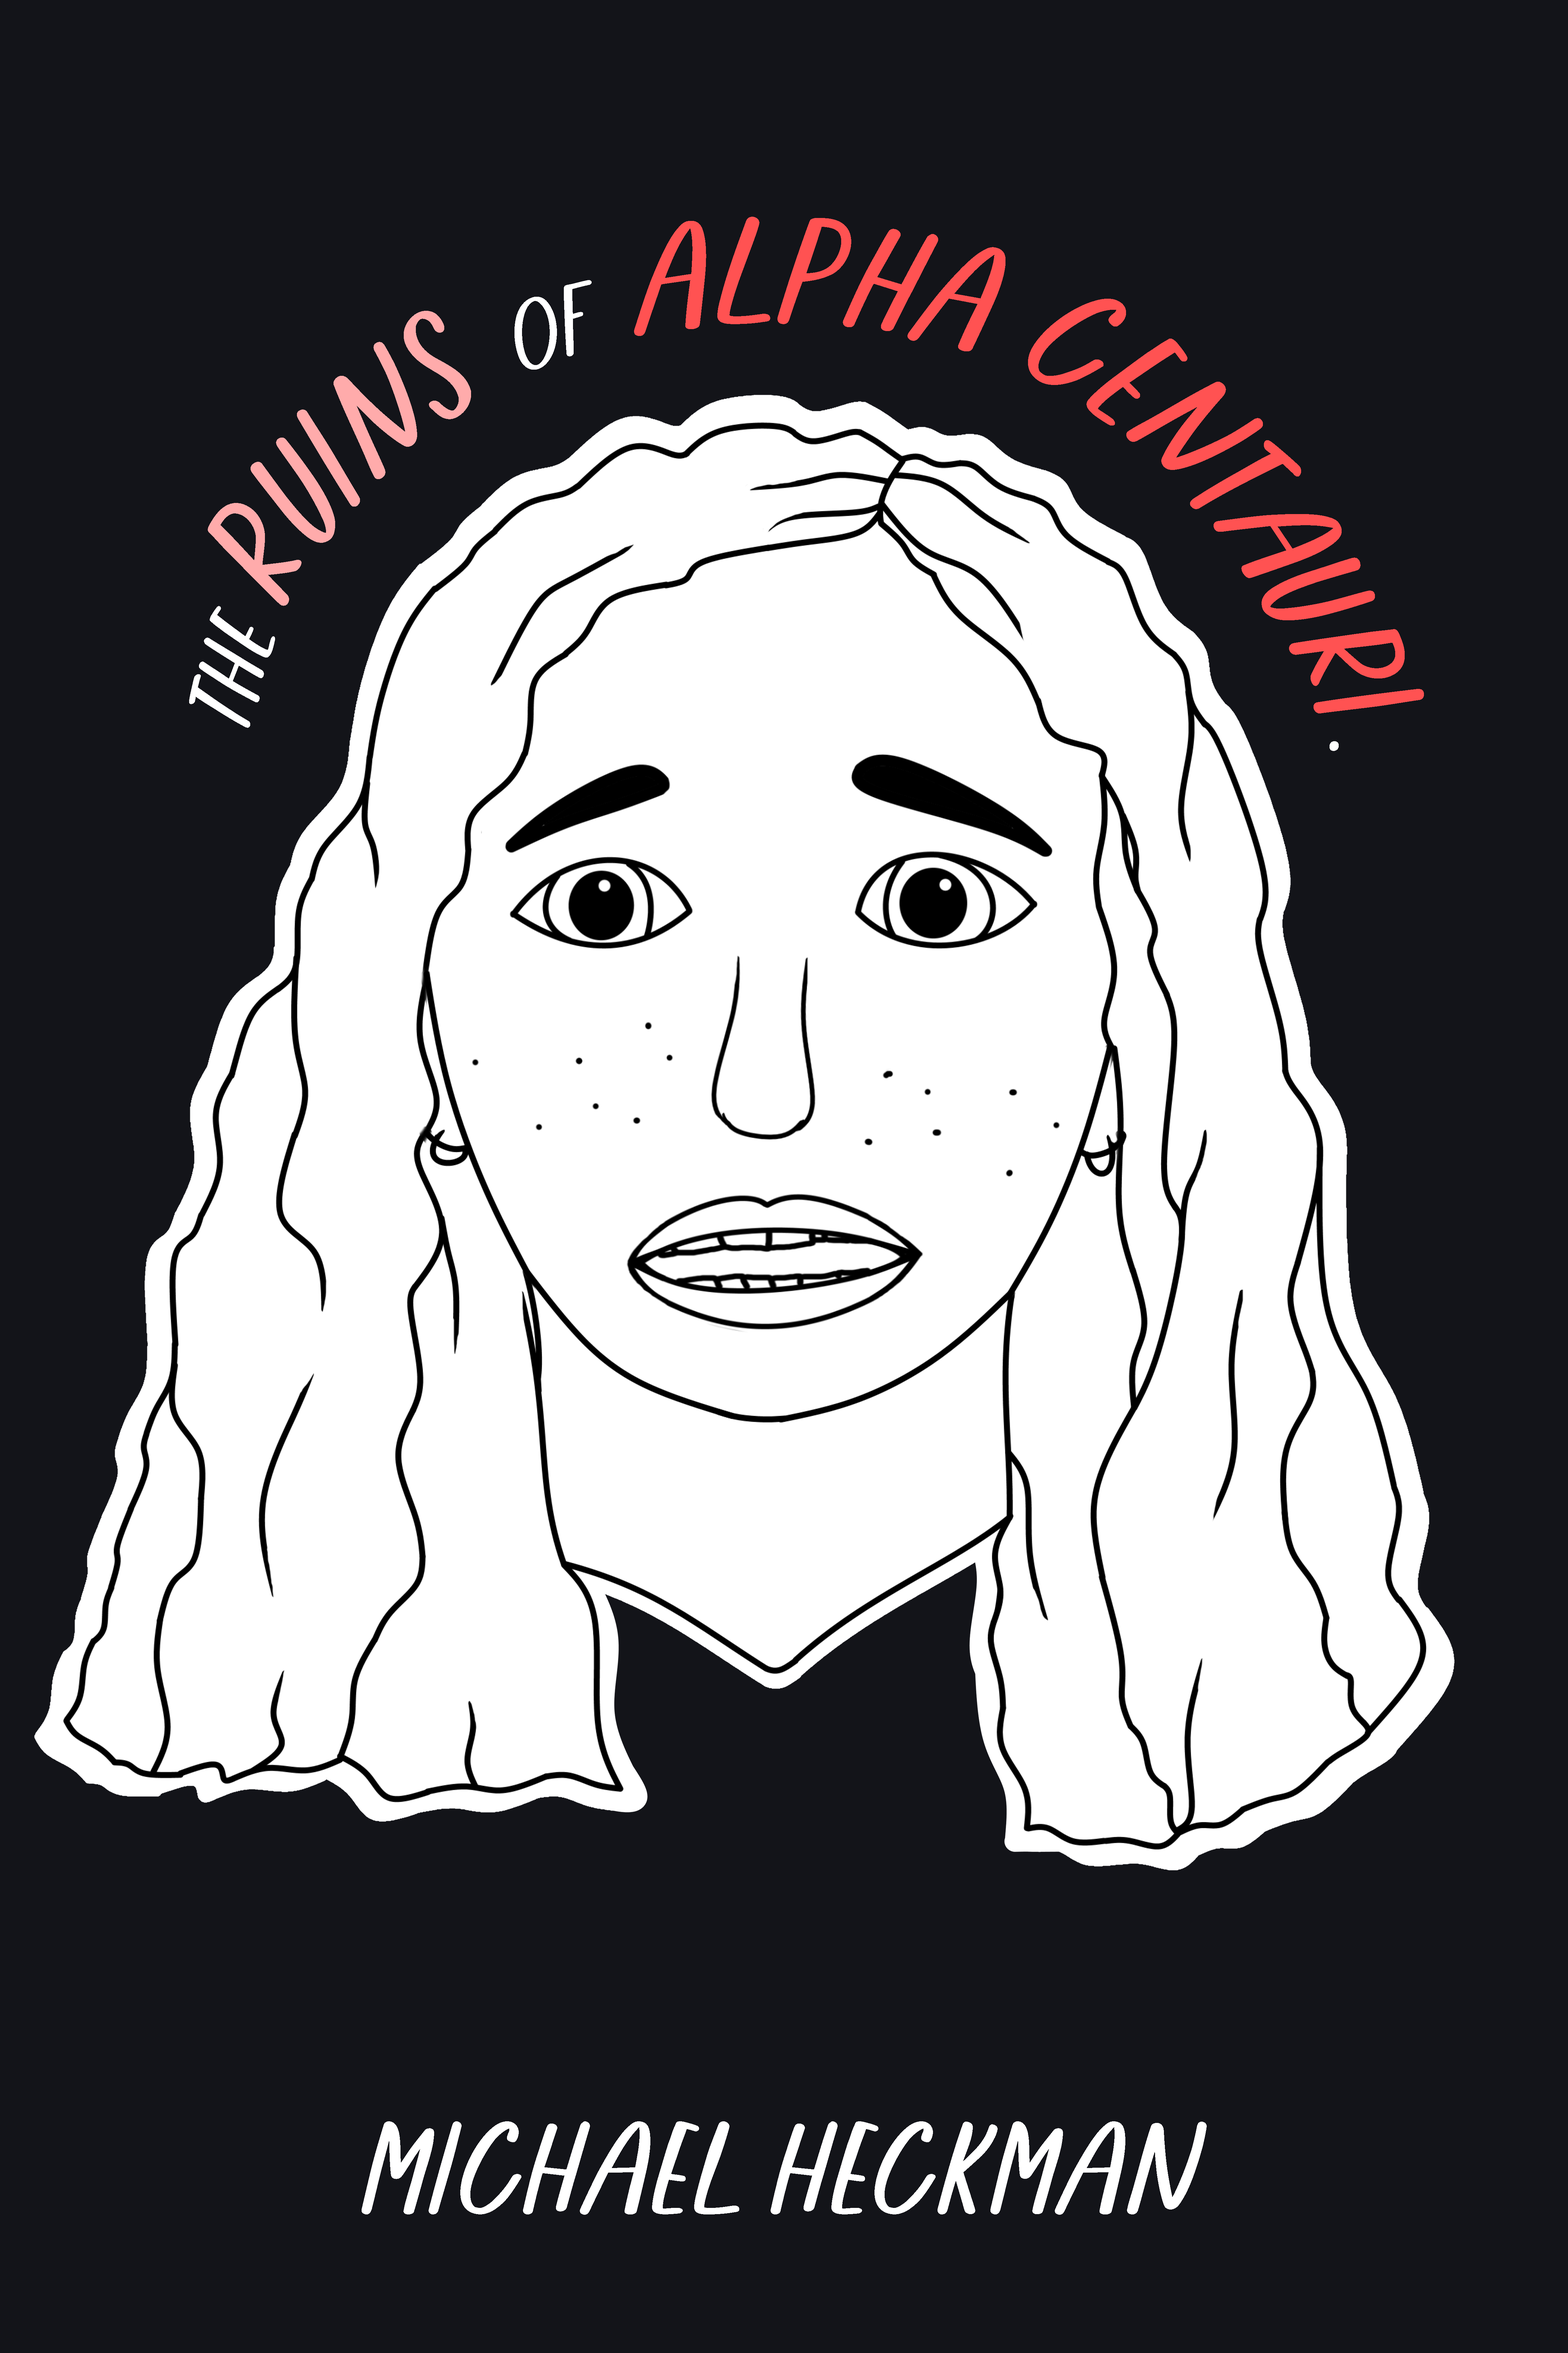
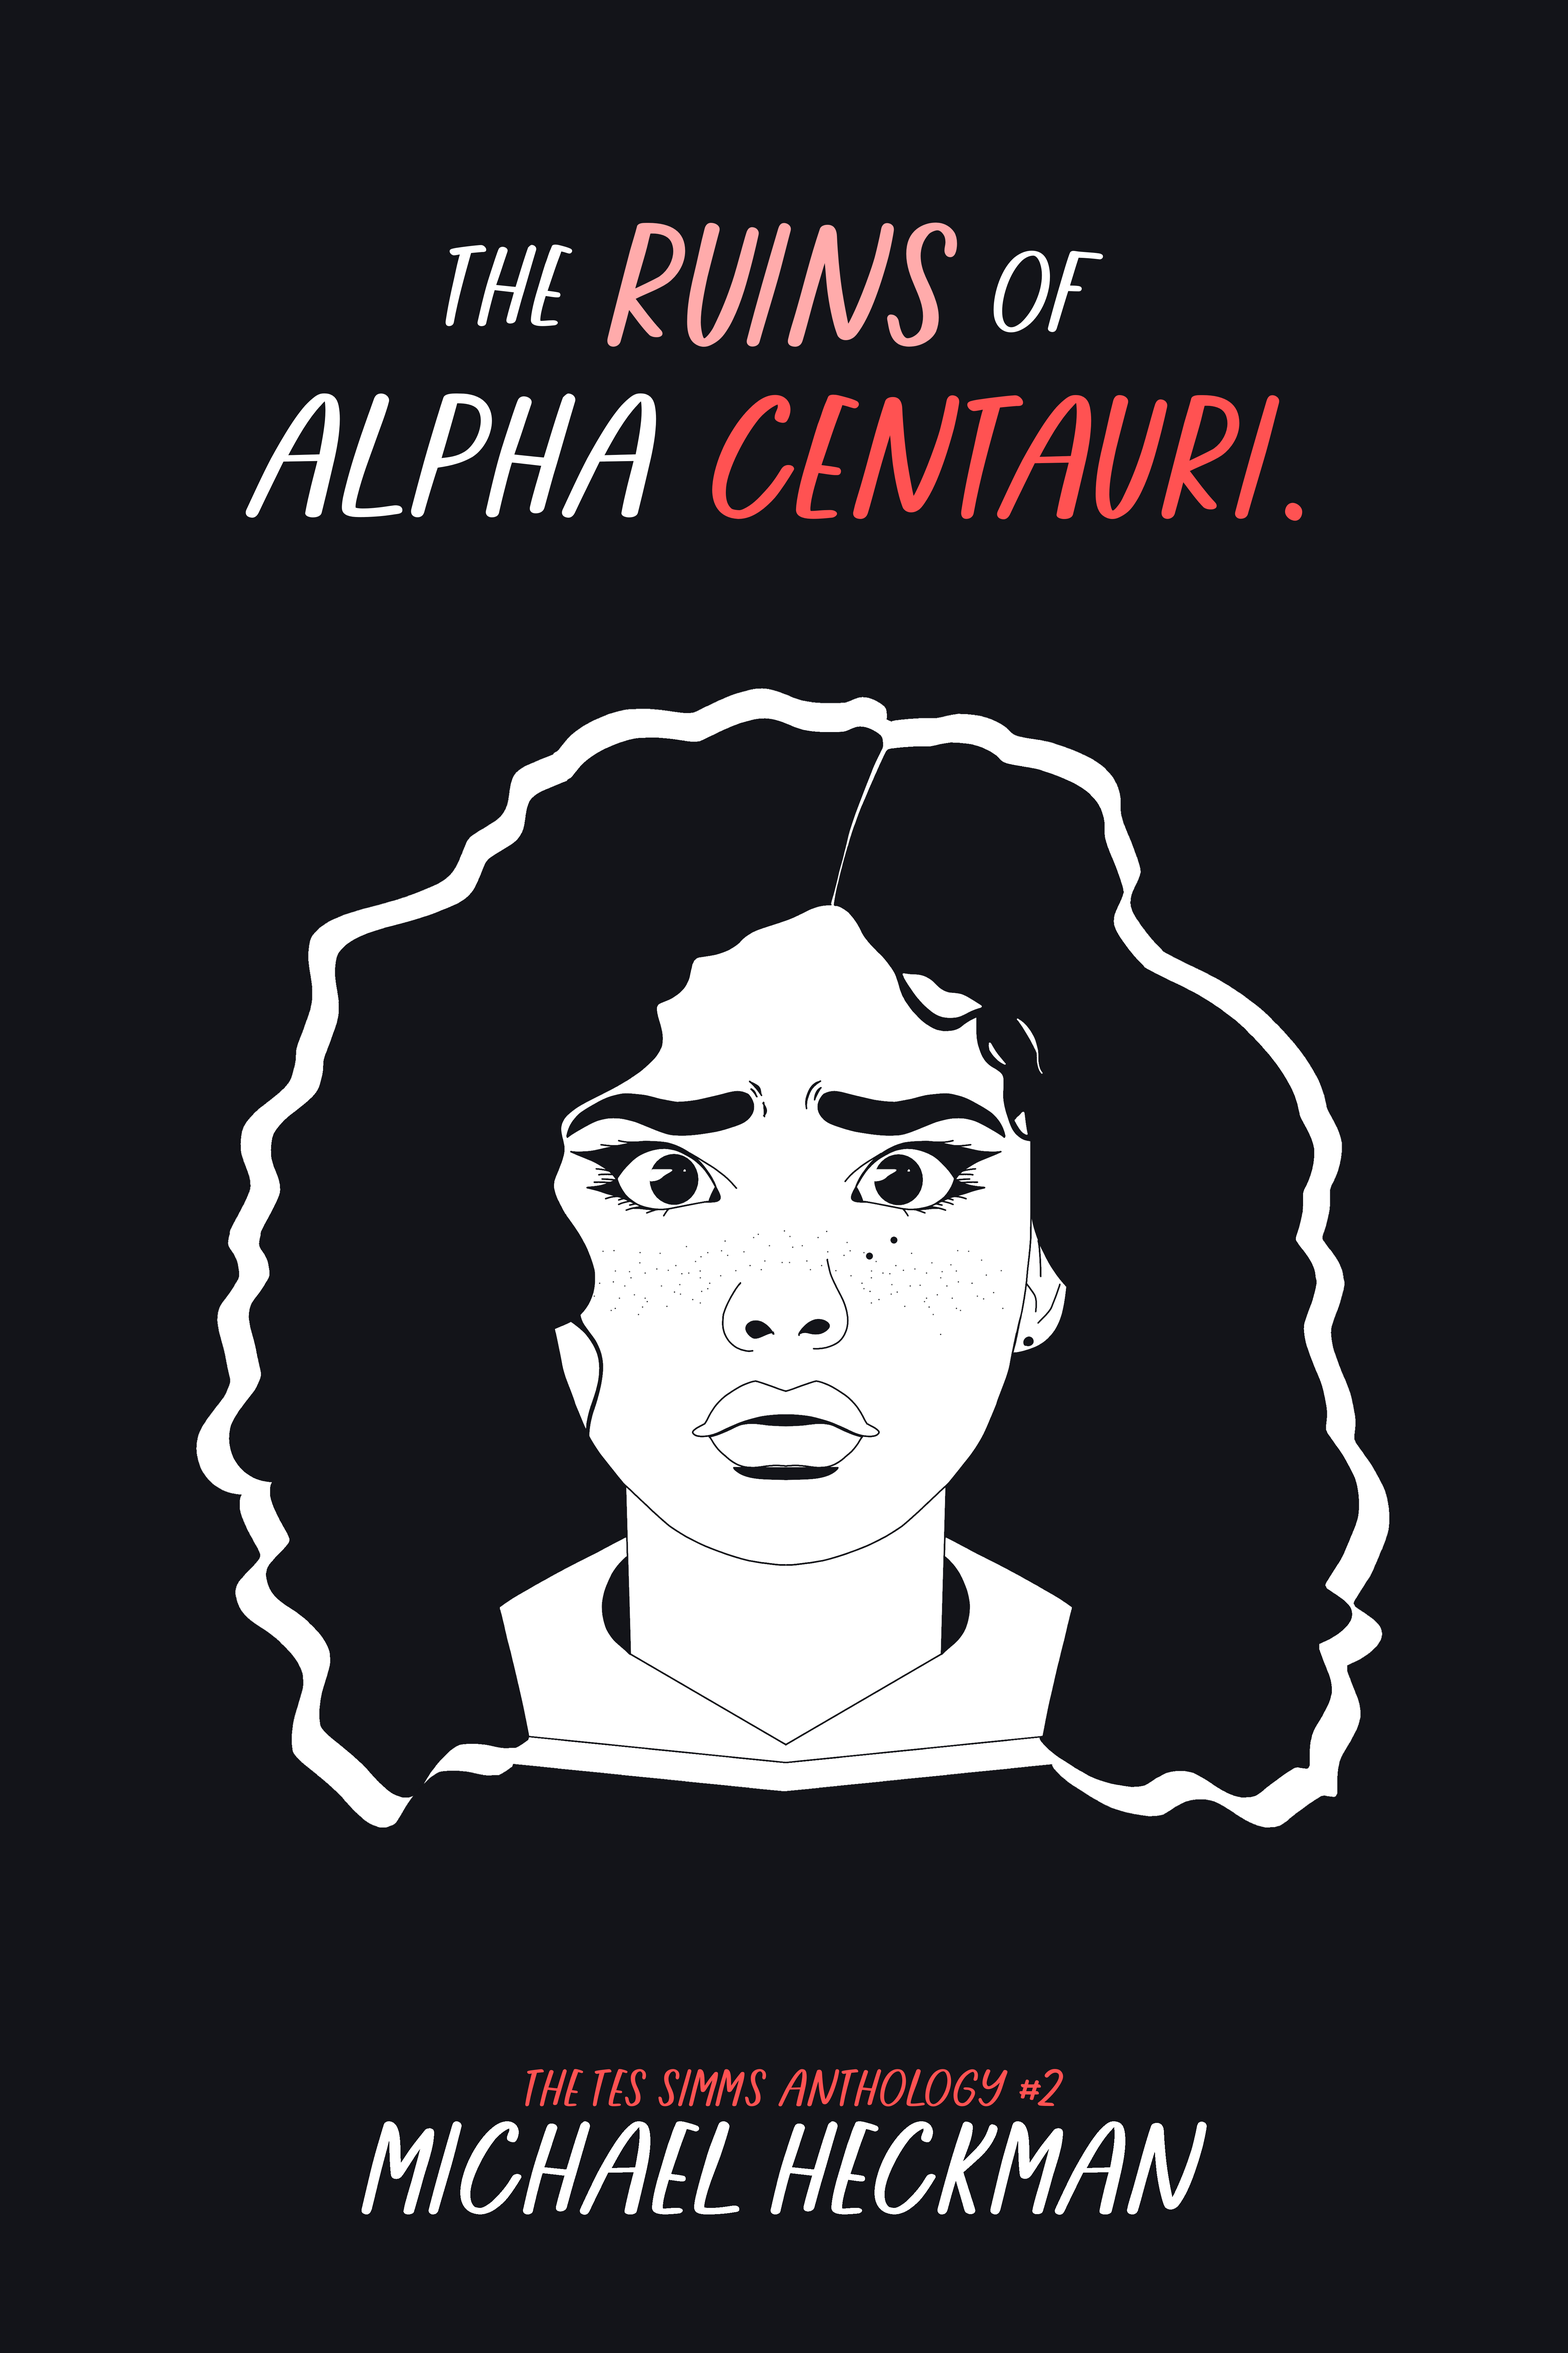
troac

diff --git a/ruins-of-alpha-centauri/index.html b/ruins-of-alpha-centauri/index.html
@@ -7,7 +7,7 @@
 <meta property="og:type" content="website" />
 <meta property="og:title" content="The Ruins of Alpha Centauri | Michael Heckman" />
 <meta property="og:description" content="Find out more about THE RUINS OF ALPHA CENTAURI by Michael Heckman." />
-<meta property="og:image" content="square.png" />
+<meta property="og:image" content="banner-mobile.png" />
 <link rel="stylesheet" href="../universal.css">
 <link rel="stylesheet" href="ruins.css">
 <link rel="icon" type="image/x-icon" href="../favicon.png">
@@ -81,7 +81,7 @@
         </div>
 
         <div class="available">
-            <img id="square-image" src="square.png" alt="The Ruins of Alpha Centauri">
+            <img id="square-image" src="../book-cover/the-ruins-of-alpha-centauri.png" alt="The Ruins of Alpha Centauri">
             <div class="alternate-readers">
                 <a rel="noopener" href="https://www.royalroad.com/fiction/57957"><img src="https://msheckman.com/social-icons/royal-white.png" alt="Royal Road Logo"></a>
                 <a rel="noopener" href="https://www.wattpad.com/myworks/326870769"><img src="https://msheckman.com/social-icons/watt-white.png" alt="Wattpad Logo"></a>
